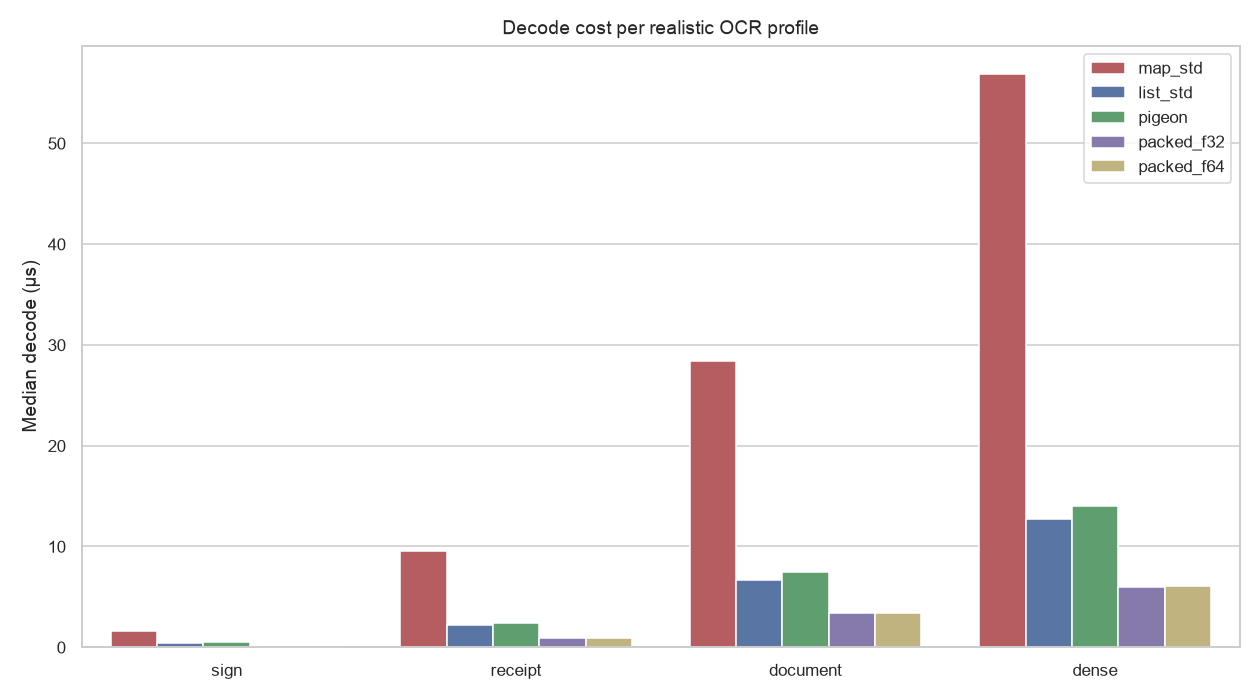
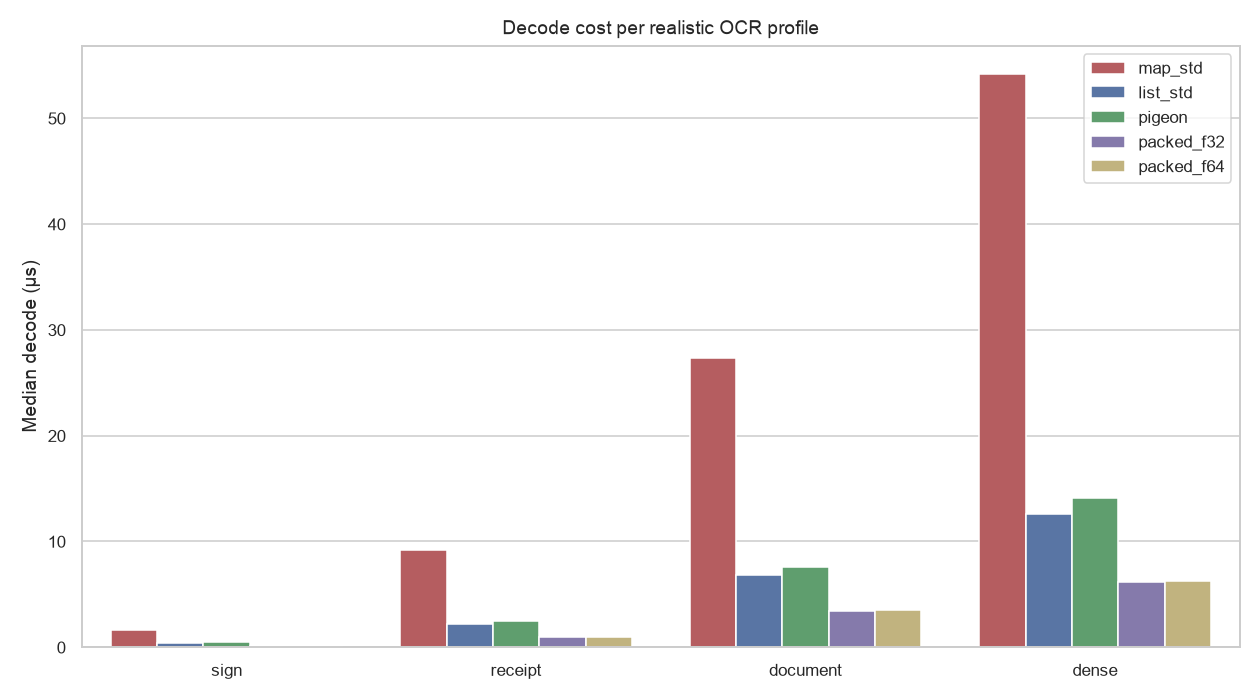
benchmark: refresh codec report on Dart 3.13.2

diff --git a/benchmark/reports/SUMMARY.md b/benchmark/reports/SUMMARY.md
@@ -4,32 +4,32 @@ Per-frame **decode** CPU and **wire size** of the recognition-results transport,
 
 > **Scope.** Pure-Dart codec cost only — *not* native encode, real-device frame latency, or ML inference (which dominates end-to-end). These numbers bound the upside of a transport change; they are not an end-to-end speedup.
 
-Captured: SDK `3.12.2` · package `0.0.0` · git `4eeb778` · N=30 · 2026-06-19T16:26:30.354491Z · per-machine — your numbers will differ.
+Captured: SDK `3.13.2` · package `0.2.0` · git `ef8b8a4` · N=30 · 2026-09-01T13:33:21.079683Z · per-machine — your numbers will differ.
 
 ## Realistic profiles
 
 | Profile | Candidate | Decode (µs) | Wire (bytes) | Δ decode | Δ bytes |
 |---|---|--:|--:|--:|--:|
-| sign | `map_std` | 1.64 | 432 | 0% | 0% |
-| sign | `list_std` | 0.42 | 312 | -74% | -28% |
-| sign | `pigeon` | 0.49 | 312 | -70% | -28% |
-| sign | `packed_f32` | 0.14 | 116 | -92% | -73% |
+| sign | `map_std` | 1.61 | 432 | 0% | 0% |
+| sign | `list_std` | 0.43 | 312 | -73% | -28% |
+| sign | `pigeon` | 0.50 | 312 | -69% | -28% |
+| sign | `packed_f32` | 0.14 | 116 | -91% | -73% |
 | sign | `packed_f64` | 0.14 | 184 | -91% | -57% |
-| receipt | `map_std` | 9.57 | 2608 | 0% | 0% |
-| receipt | `list_std` | 2.21 | 2016 | -77% | -23% |
-| receipt | `pigeon` | 2.44 | 2024 | -75% | -22% |
-| receipt | `packed_f32` | 0.91 | 852 | -91% | -67% |
-| receipt | `packed_f64` | 0.90 | 1280 | -91% | -51% |
-| document | `map_std` | 28.39 | 9384 | 0% | 0% |
-| document | `list_std` | 6.70 | 7648 | -76% | -18% |
-| document | `pigeon` | 7.46 | 7704 | -74% | -18% |
-| document | `packed_f32` | 3.36 | 4149 | -88% | -56% |
-| document | `packed_f64` | 3.36 | 5417 | -88% | -42% |
-| dense | `map_std` | 56.83 | 16496 | 0% | 0% |
-| dense | `list_std` | 12.68 | 13136 | -78% | -20% |
-| dense | `pigeon` | 14.02 | 13240 | -75% | -20% |
-| dense | `packed_f32` | 6.00 | 6099 | -89% | -63% |
-| dense | `packed_f64` | 6.03 | 8647 | -89% | -48% |
+| receipt | `map_std` | 9.19 | 2608 | 0% | 0% |
+| receipt | `list_std` | 2.24 | 2016 | -76% | -23% |
+| receipt | `pigeon` | 2.50 | 2024 | -73% | -22% |
+| receipt | `packed_f32` | 0.93 | 852 | -90% | -67% |
+| receipt | `packed_f64` | 0.94 | 1280 | -90% | -51% |
+| document | `map_std` | 27.32 | 9384 | 0% | 0% |
+| document | `list_std` | 6.85 | 7648 | -75% | -18% |
+| document | `pigeon` | 7.55 | 7704 | -72% | -18% |
+| document | `packed_f32` | 3.45 | 4149 | -87% | -56% |
+| document | `packed_f64` | 3.48 | 5417 | -87% | -42% |
+| dense | `map_std` | 54.14 | 16496 | 0% | 0% |
+| dense | `list_std` | 12.59 | 13136 | -77% | -20% |
+| dense | `pigeon` | 14.14 | 13240 | -74% | -20% |
+| dense | `packed_f32` | 6.21 | 6099 | -89% | -63% |
+| dense | `packed_f64` | 6.23 | 8647 | -88% | -48% |
 
 ## Charts
 
